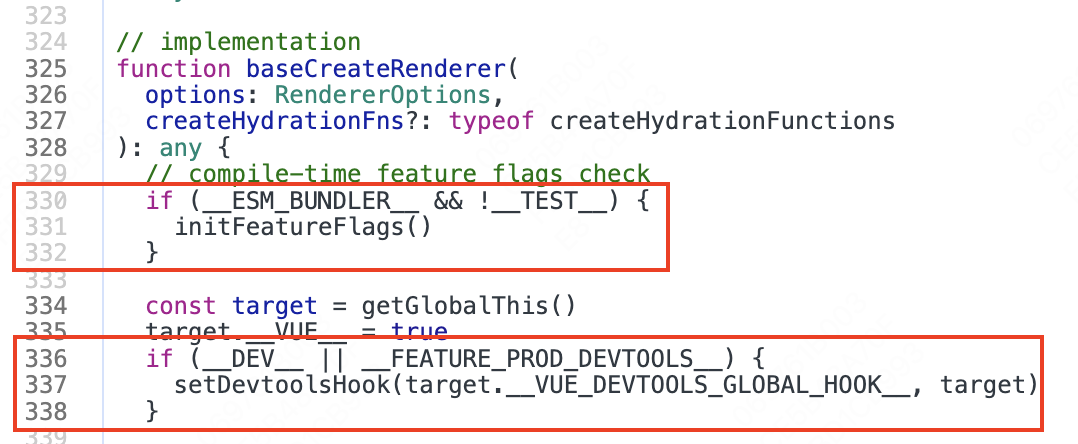
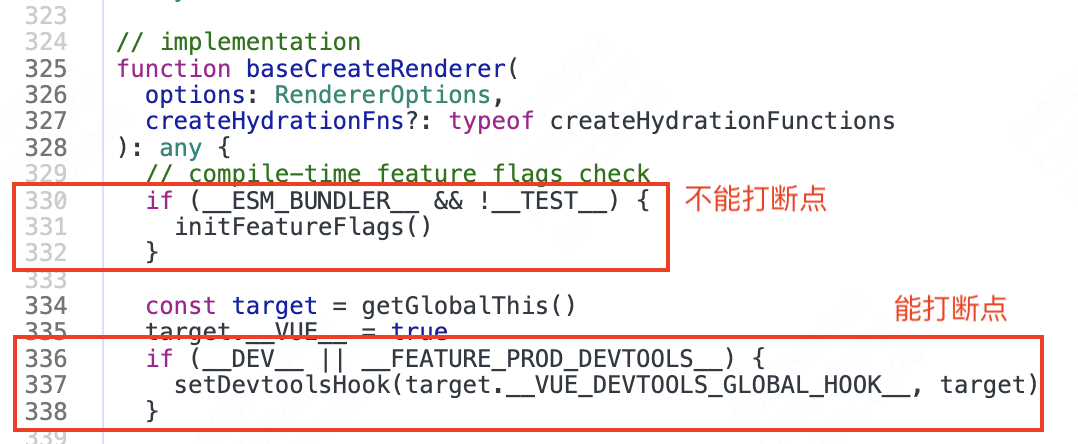
增加文章

Changed region(s): [[0.8265, 0.6441, 0.949, 0.732], [0.6429, 0.4099, 0.7653, 0.4977]]

diff --git a/Vue/Vue3源码解析 -- 1.源码调试.md b/Vue/Vue3源码解析 -- 1.源码调试.md
@@ -1,0 +1,144 @@
+> 基于vue@3.3.4源码
+
+## Vue3 源码构建
+
+1、下载 vue3.3.4 源码 `https://codeload.github.com/vuejs/core/zip/refs/tags/v3.3.4`
+
+2、源码 .github/CONTRIBUTING.md 文件中有描述怎么安装依赖，使用 `pnpm i` 安装依赖
+
+3、安装依赖的时候，遇到 puppeteer 下载问题，需要在项目根目录添加`.npmrc`，加上这一行代码`puppeteer-download-base-url="https://cdn.npmmirror.com/binaries/chrome-for-testing"`
+
+4、在 package.json 中的 scripts 中添加如下命令 build-vue-only，主要是只打包全局的 vue 和输出 sourcemap 文件。package.json 中默认有 build 命令，是打包所有的 package，并且打包所有格式。
+
+```bash
+"build-vue-only": "node scripts/build.js vue --formats global --sourcemap true",
+```
+
+5、执行 `pnpm build-vue-only`，会在 packages/vue/dist 文件夹下生成 `vue.global.js` 和 `vue.global.js.map`，接下来就可以直接使用了。
+
+## Vue3 源码目录
+
+在项目目录运行命令 `tree -aI ".git*|.vscode|node_modules" -C -L 2`，会打印目录结构，我们只分析 packages 下面的目录。
+
+```js
+├── packages
+│   ├── compiler-core        // 包含Vue编译器的核心功能，提供了编译器的基本逻辑和算法。比如编译成抽象语法树等。
+│   ├── compiler-dom         // 包含Vue编译器针对浏览器环境的特定功能，例如处理DOM元素和属性。
+│   ├── compiler-sfc         // 包含Vue单文件组件（SFC）编译器，用于将单文件组件转换为渲染函数。
+│   ├── compiler-ssr         // 包含Vue服务器端渲染（SSR）编译器，用于将Vue组件编译为在服务器上渲染的函数。
+│   ├── dts-test             // 包含用于测试Vue类型声明文件的相关工具和测试用例。
+│   ├── global.d.ts          // 全局类型声明文件，用于定义全局变量和类型。
+│   ├── reactivity           // 包含Vue响应式系统的实现，用于实现数据的响应式和依赖追踪。
+│   ├── reactivity-transform // 包含用于转换Vue 2.x代码以适应Vue 3响应式系统的工具。
+│   ├── runtime-core         // 包含Vue运行时的核心功能，提供了Vue实例的创建、组件的渲染等基本功能。
+│   ├── runtime-dom          // 包含Vue运行时针对浏览器环境的特定功能，例如处理DOM操作和事件处理。
+│   ├── runtime-test         // 包含用于测试Vue运行时的相关工具和测试用例。
+│   ├── server-renderer      // 包含Vue服务器端渲染（SSR）的相关功能，用于在服务器上渲染Vue组件。
+│   ├── sfc-playground       // 包含用于在浏览器中演示和测试Vue单文件组件的工具。
+│   ├── shared               // 包含Vue内部共享的工具函数和常量。
+│   ├── size-check           // 包含用于检查Vue库大小的工具和配置文件。
+│   ├── template-explorer    // 包含用于在浏览器中探索和分析Vue模板的工具。
+│   ├── vue                  // 包含面向用户的Vue的完整版本，包括编译器和运行时。
+│   └── vue-compat           // 包含用于向后兼容Vue 2.x的功能和API的适配层。
+```
+
+其中最重要的 5 个模块，分别是：compiler-core，compiler-dom，compiler-sfc，runtime-core，runtime-dom，reactivity。
+
+compile 可以理解为编译器，将 vue 的语法，代码，编译成 JS 的过程。而 runtime 则是程序运行时的一些方法，比如创建实例，生命周期，渲染等 vue 的核心功能。
+
+## 打包生成的文件
+
+package.json 中默认有 build 命令，是打包所有的 package，并且生成不同格式的文件。分别有 iife，cjs，es 格式。iife 表示立即执行函数，可以直接在 html 中使用；cjs 表示用在 Nodejs 环境，或其他支持 CommonJS 的环境；es 表示生成的文件遵循 ES6 的模块规范。
+
+生成的文件名字分别是 `vue.global.js`，`vue.cjs.js`，`vue.esm-browser.js`，`vue.esm-bundler.js`，`vue.runtime.global.js`，`vue.runtime.esm-browser.js`，`vue.runtime.esm-bundler.js`。其中大致分为两种，一种是带 runtime 的，表示这个文件是纯 Vue 功能的，包含 Vue 运行时的各种方法，但是不支持模版语法等，也就是不支持编译。另外一种不带 runtime 的，表示是全部的代码，既包含编译部分，也包含 Vue 的运行时功能。
+
+- cjs：CommonJS（CJS）模块格式的文件，适用于 Node.js 环境或其他支持 CommonJS 的环境。
+- global：将 Vue 3 作为一个全局变量暴露给浏览器环境使用。
+- global-runtime：仅包含运行时代码的全局变量模块文件，适用于浏览器环境。相比 global.js 就是少了 compile 方法。
+- esm-bundler 和 esm-browser：这两个配置用于打包 ES 模块（ESM）格式的文件。'esm-bundler' 用于打包供 bundler（如 Rollup 或 Webpack）使用的 ES 模块文件，而 'esm-browser' 用于打包供浏览器环境使用的 ES 模块文件。
+
+- esm-bundler-runtime 和 esm-browser-runtime：这两个配置用于打包仅包含运行时代码的 ES 模块文件。'esm-bundler-runtime' 用于 bundler 环境，如 Rollup 或 Webpack，而 'esm-browser-runtime' 用于浏览器环境。
+
+## Vue3 使用和调试
+
+1、在 packages/vue/examples 文件夹下创建 debug 文件夹，并且在 debug 文件夹下创建 index.html，App.js，index.js。
+
+2、将下面的代码复制到对应文件中
+
+3、浏览器运行 index.html，需要使用服务器启动这个 html
+
+4、开始打断点调试，从 createApp 方法开始
+
+```html
+<script src="../../dist/vue.global.js"></script>
+
+<!-- App组件的模板 -->
+<script type="text/x-template" id="app">
+  <div @click="add">{{name}}</div>
+</script>
+
+<!-- App根组件 -->
+<script type="module" src="./App.js"></script>
+
+<!-- 项目启动文件 -->
+<script type="module" src="./index.js"></script>
+
+<!-- 模拟渲染的根节点 -->
+<div id="demo"></div>
+```
+
+```js
+// App.js
+const { ref } = Vue;
+export default {
+  template: '#app',
+  setup() {
+    const name = ref(0);
+    const add = () => {
+      name.value++;
+    };
+
+    return {
+      name,
+      add,
+    };
+  },
+};
+```
+
+```js
+// index.js
+import App from './app.js';
+
+const { createApp } = Vue;
+const app = createApp(App);
+app.mount('#demo');
+```
+
+## 其他
+
+### 不能打断点的代码
+
+打包的时候，是有 sourcemap 的，所以引入的 vue.global.js 在调试时会指向真正的未打包之前的源码。但是调试过程发现在源代码上，有的不能打断点，是灰色的，像下图。
+
+![debug](https://cdn.lishuxue.site/blog/image/Vue/debug.png)
+
+这些`__XXX__`类型的变量通常用于在开发环境和生产环境之间进行条件编译，以实现在开发阶段添加额外的调试信息或者去除一些不必要的代码。这些变量通常是在构建过程中通过构建工具的插件定义的。
+
+vue3 打包时，用到了 rollup-plugin-esbuild 的 define 属性，设置了许多预定义常量。类似的功能还有 webpack.DefinePlugin，@rollup/plugin-replace 等插件。
+
+所以那些灰色的代码，其实是因为在 vue.global.js 中不存在，所以源码调试时，相当于在源码中没有映射到该代码。
+
+### 存粹的函数或表达式
+
+源码中经常会看到类似于 `/*#__PURE__*/` 的注释，这是一种特殊的注释语法，用于告诉工具或编译器某个函数或表达式是纯粹的（pure），没有副作用的，可以安全的被替换或者删除。以便在编译过程中进行优化，或减小最终生成的代码的体积。
+
+源码被打包成 vue.global.js 后，`/*#__PURE__*/` 注释会变为 `/* @__PURE__ */` 注释，这是 esbuild 做的，将这种注释统一了下。后续 Terser 压缩时可以识别，当然 Terser 中也支持 `#` 开头的注释。
+
+### 打包时为什么 rollup 和 esbuild 同时使用
+
+Vue3 在打包时，使用了 rollup-plugin-esbuild 插件，借助了 esbuild 在构建速度方面的强大优势。在 Rollup 构建过程中使用 esbuild 引擎进行快速代码转换，如 JSX 转换、TypeScript 转换等，而无需额外配置和使用 @rollup/plugin-babel 和 @rollup/plugin-typescript 插件。
+
+同时由于 Rollup 的强大的生态，有大量的插件，且在处理模块化代码、代码拆分和库的构建方面有很强的优势。比如分模块打包，打包成不同格式的文件等。
+
+因此，Vue 3 选择在 Rollup 中使用 rollup-plugin-esbuild 插件，以便充分利用 esbuild 引擎的性能优势，同时保留 Rollup 的灵活性和丰富的生态系统。这样可以在保证性能的同时，与现有的 Vue 生态系统和插件进行良好的集成。
